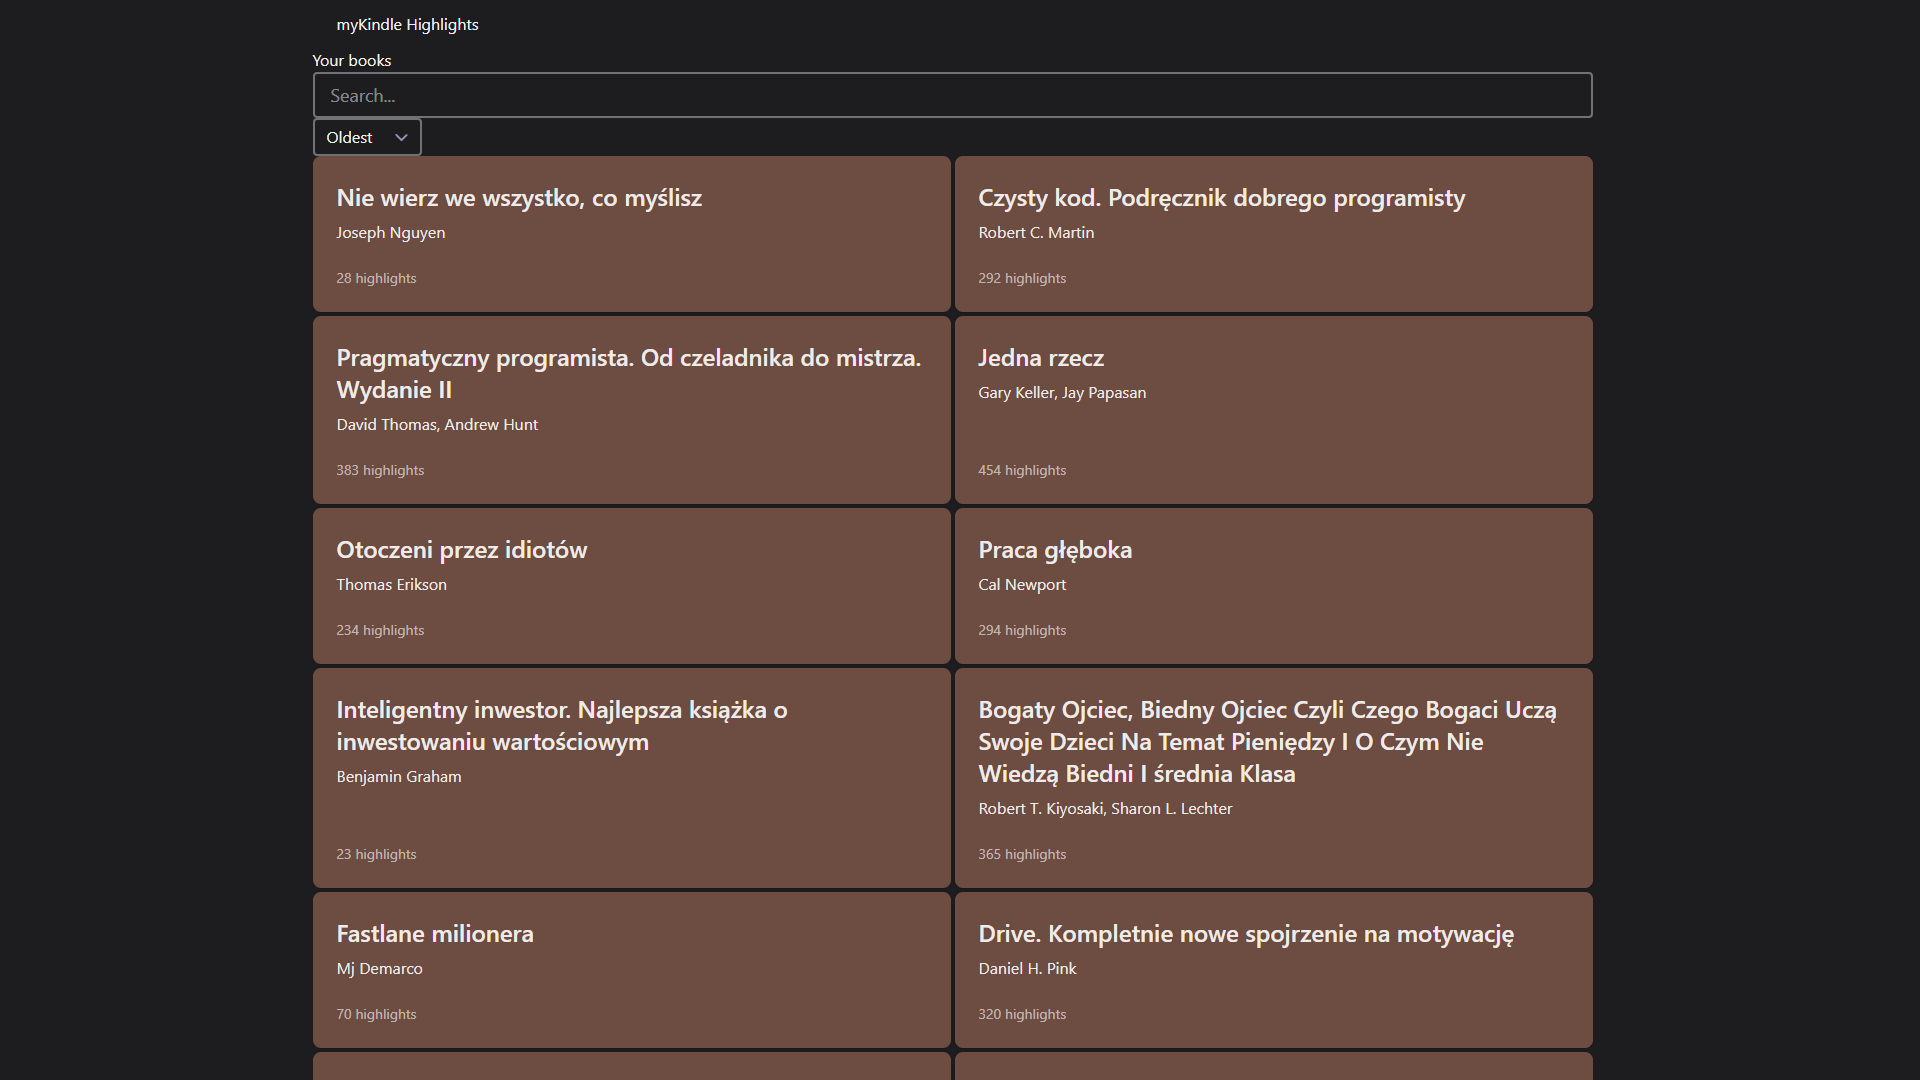
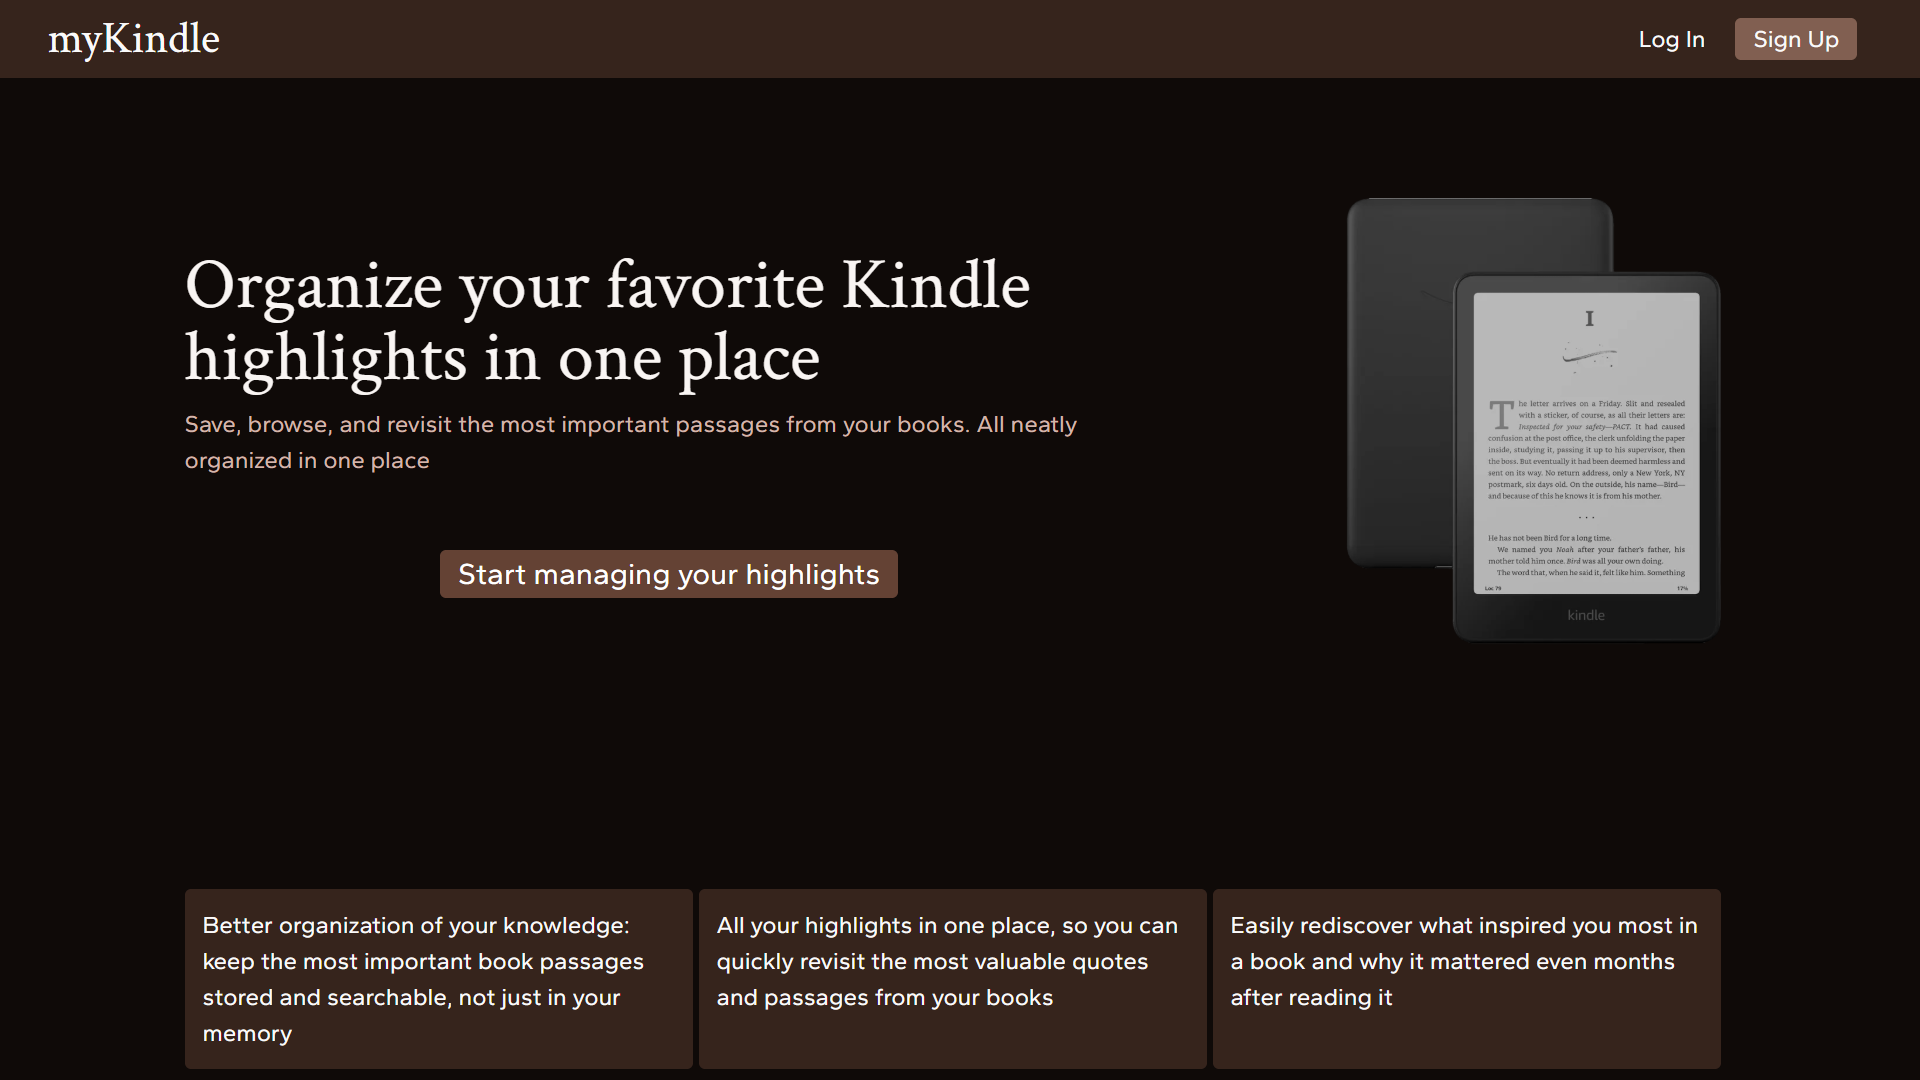
Change myKindle card

diff --git a/lib/portfolioData.ts b/lib/portfolioData.ts
@@ -183,9 +183,9 @@ export const projects: Project[] = [
   {
     id: 3,
     title: "myKindle Highlights",
-    image: "/mykindle.png",
+    image: "/myKindle.png",
     description:
-      "Aplikacja do przechowywania podkreśleń z Kindle. Użytkownik wczytuje plik z podkreśleniami, a aplikacja odczytuje jego zawartość. Podkreślenia są pogrupowane według książek i są przechowywane w localStorage. Użytkownik może wyszukiwać książki i poszczególne podkreślenia również może sortować listę książek, jak i podkreślenia",
+      "Aplikacja do zarządzania podkreśleniami z Kindle, która umożliwia import i automatyczne przetwarzanie danych oraz przechowywanie ich w bazie PostgreSQL (Supabase). Użytkownicy mogą zakładać konto (email/hasło, weryfikacja, reset hasła) lub logować się przez Google i GitHub. Wszystkie highlights są zebrane w jednym miejscu, uporządkowane według książek, z możliwością wyszukiwania i sortowania",
     techStack: getTechnologies([
       "NextJS",
       "React",
@@ -193,7 +193,7 @@ export const projects: Project[] = [
       "JavaScript",
       "TailwindCSS",
     ]),
-    liveUrl: "https://github.com/OKE225/myKindle_Highlights_app",
+    liveUrl: "https://my-kindle-highlights-app.vercel.app/",
     repoUrl: "https://github.com/OKE225/myKindle_Highlights_app",
   },
   {